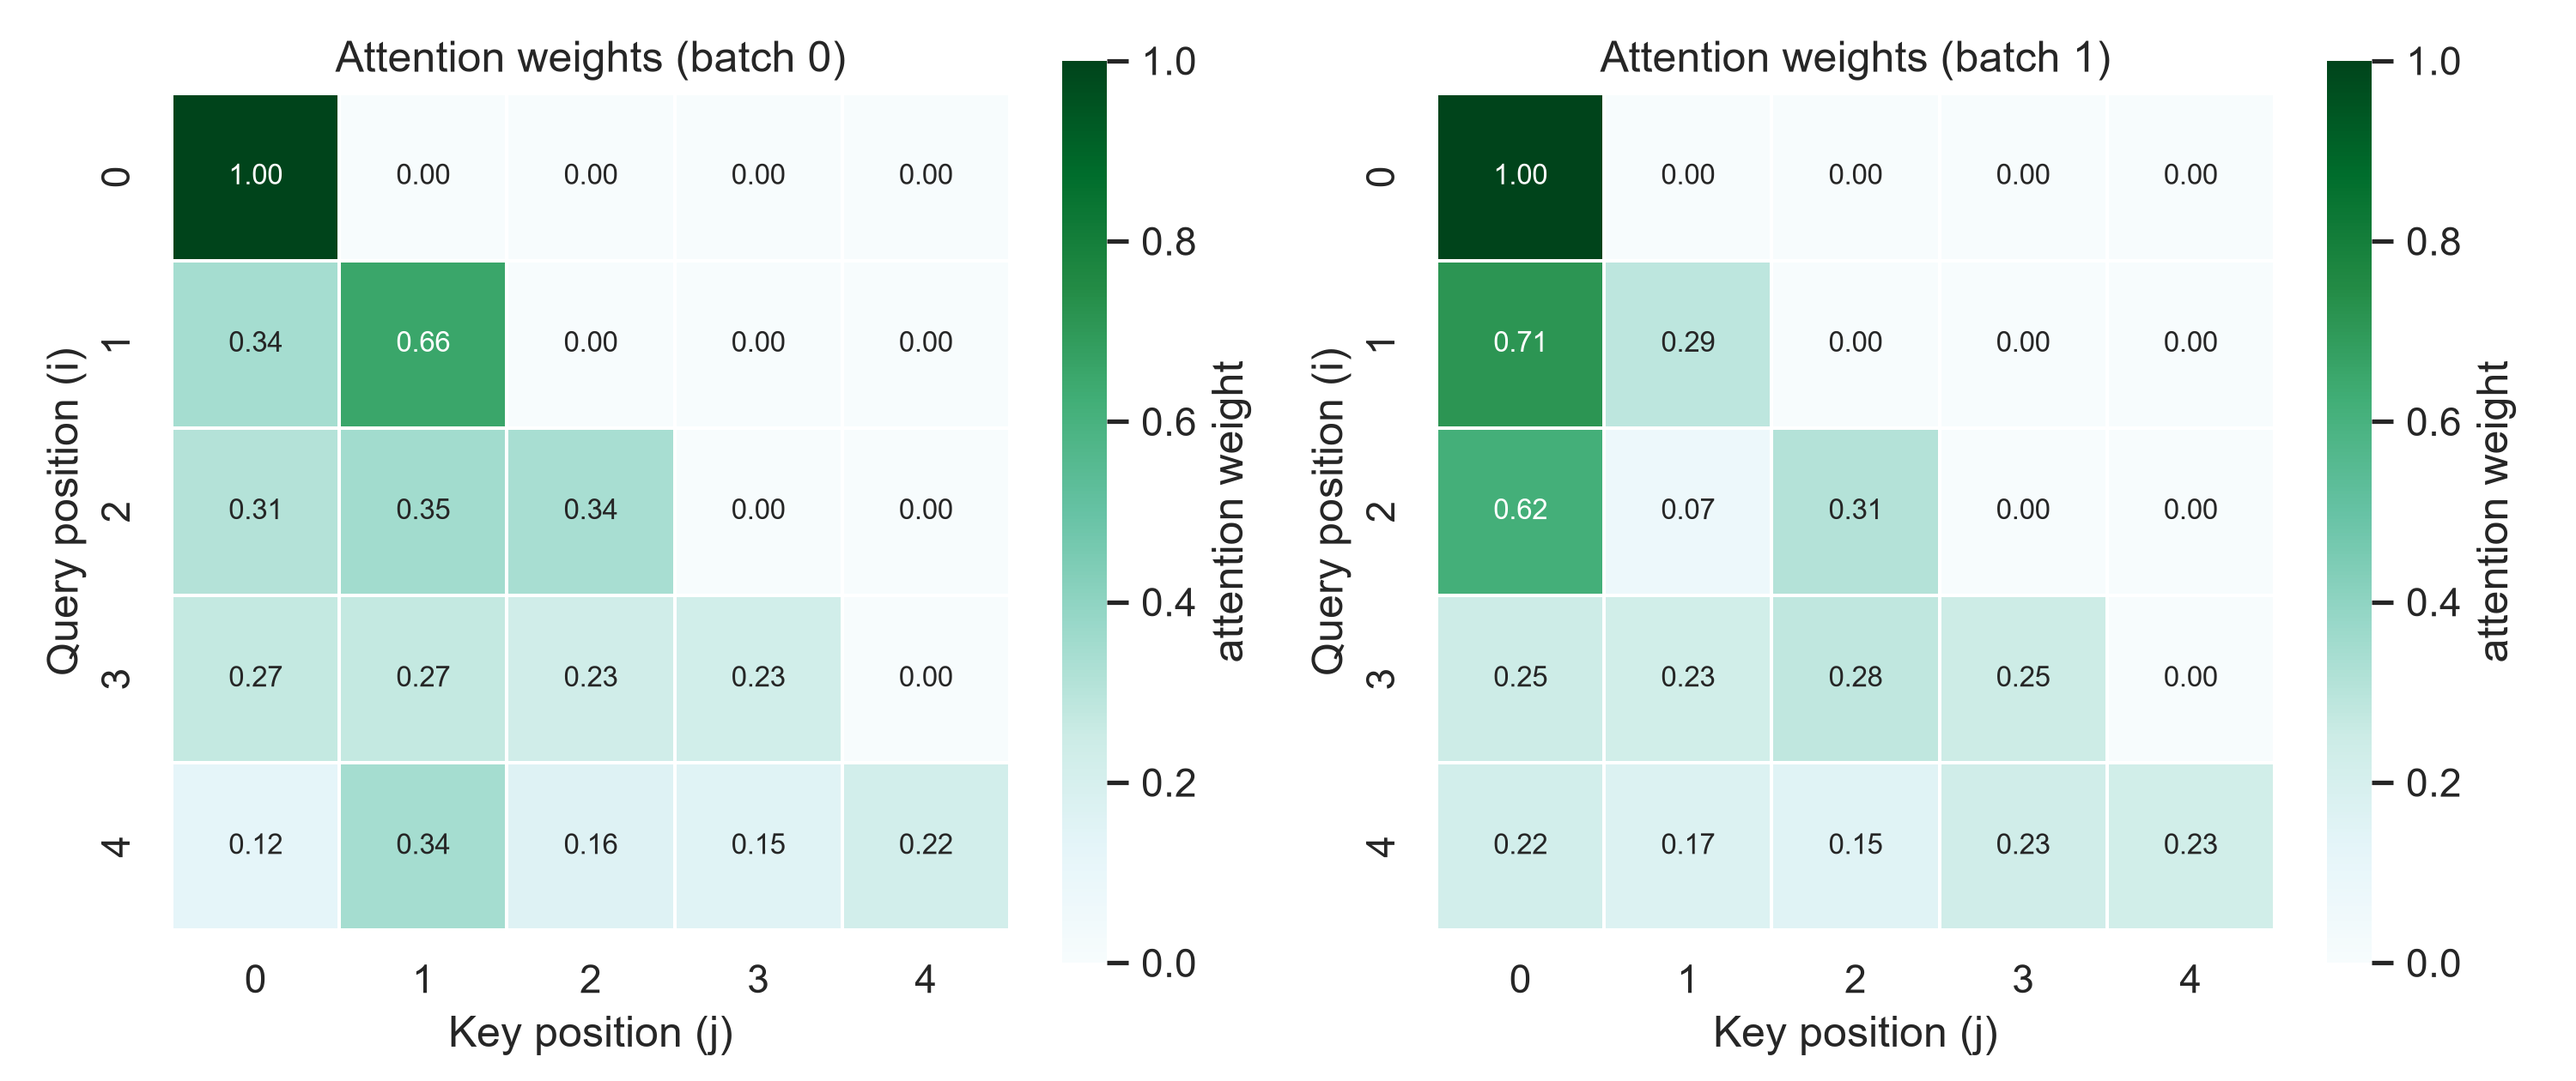
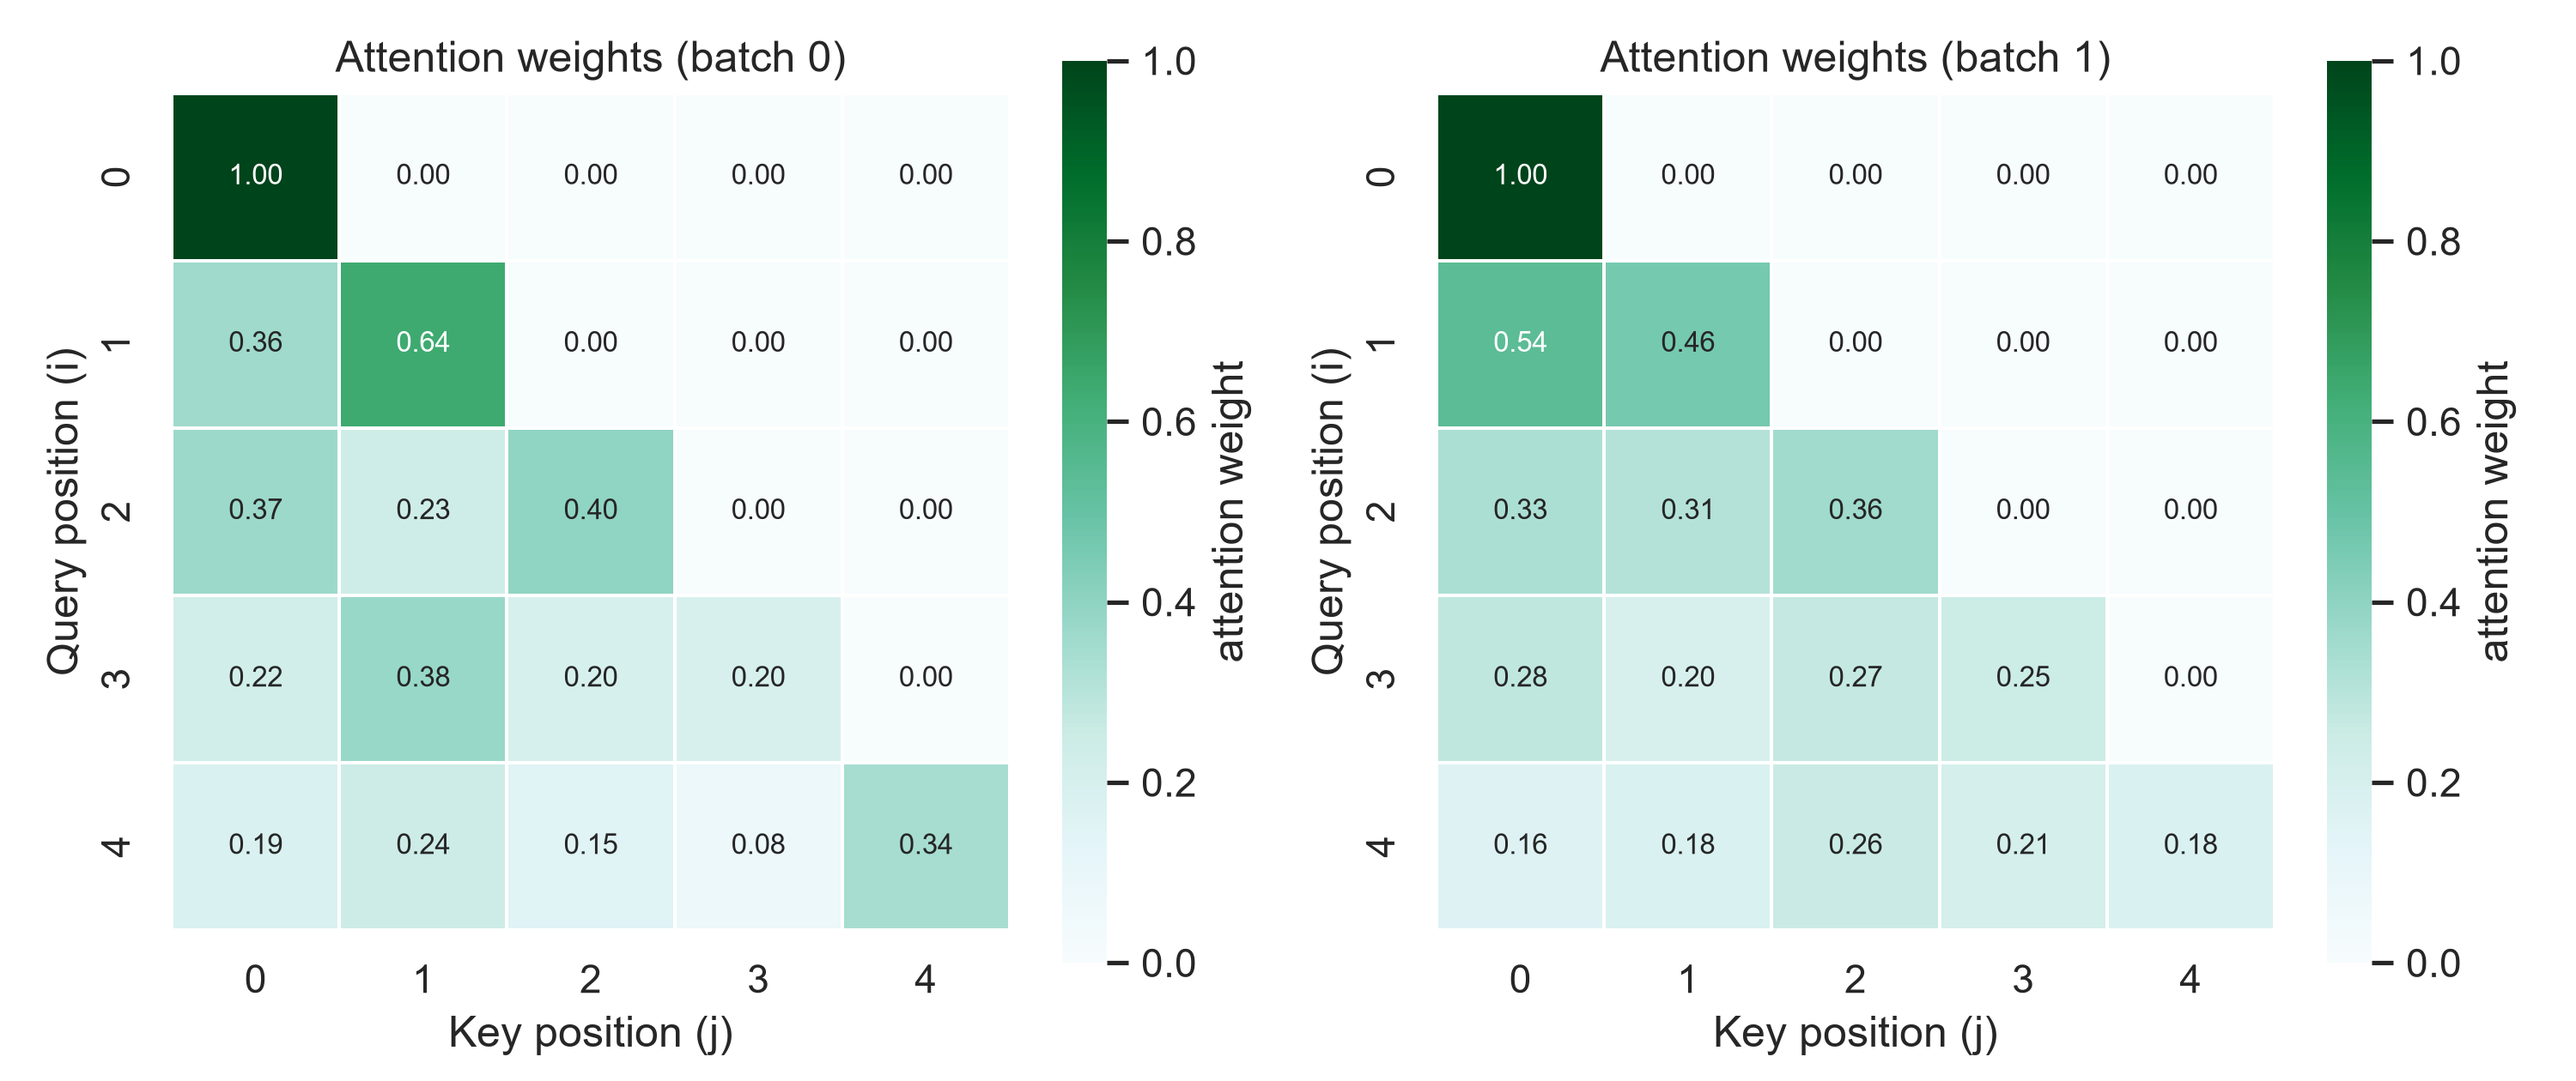
refactor(SA): 统一注意力掩码逻辑并优化SDPA使用方式
1. 修正sa.py中的掩码填充逻辑，匹配bool掩码语义
2. 简化single_head.py的因果掩码代码并补充示例注释
3. 重构sa_sdpa.py：改用显式attn_mask参数替代is_causal，统一掩码约定
4. 更新所有示例中的掩码生成和使用逻辑

diff --git a/SA/sa_sdpa.py b/SA/sa_sdpa.py
@@ -8,7 +8,8 @@
 注意: SDPA 只返回输出, 不返回注意力权重。
 需要权重可视化时用 need_attn=True 额外算一份 (仅用于观察, 不参与梯度)。
 
-因果屏蔽用 is_causal=True, 不手写 mask 张量。
+掩码使用显式 attn_mask 传入, 走 SDPA 的 bool 语义: True 表示参与注意力,
+形状需可广播到 (B, T, T); 传 None 表示不屏蔽任何位置。
 """
 
 import math
@@ -41,28 +42,26 @@ class ScaledDotProductAttentionSDPA(nn.Module):
         # 缩放因子 1/sqrt(d_k), 只在手动算注意力权重时用到
         self.scale = 1.0 / math.sqrt(self.d_k)
 
-    def forward(self, x, is_causal=False, need_attn=False):
+    def forward(self, x, attn_mask=None, need_attn=False):
         # x: (B, T, d_model)
+        # attn_mask: bool 张量, True 表示参与注意力, 可广播到 (B, T, T); None 表示不屏蔽
         Q = self.W_q(x)   # (B, T, d_k)
         K = self.W_k(x)   # (B, T, d_k)
         V = self.W_v(x)   # (B, T, d_v)
 
-        # 1. 内置算子一次完成 QK^T/sqrt(d_k) -> softmax -> @V
-        #    is_causal=True 会内置一个下三角因果 mask
+        # 1. 内置算子一次完成 QK^T/sqrt(d_k) -> mask -> softmax -> @V
+        #    bool mask 会被内部转成 0/-inf 的加性 bias, 在 softmax 之前应用
         out = F.scaled_dot_product_attention(
             Q, K, V,
-            is_causal=is_causal,
+            attn_mask=attn_mask,
         )  # (B, T, d_v)
 
-        # 2. 可选: 额外算一份注意力权重, 仅用于观察/画图
+        # 2. 可选: 额外算一份注意力权重, 仅用于观察/画图 (复用同一个 attn_mask)
         attn = None
         if need_attn:
             scores = torch.matmul(Q, K.transpose(-2, -1)) * self.scale  # (B, T, T)
-            if is_causal:
-                T_q, T_k = scores.shape[-2:]
-                causal = torch.ones(T_q, T_k, dtype=torch.bool).tril(diagonal=T_k - T_q)
-                print(causal)
-                scores = scores.masked_fill(~causal, float('-inf'))
+            if attn_mask is not None:
+                scores = scores.masked_fill(~attn_mask, float('-inf'))
             attn = F.softmax(scores, dim=-1)  # (B, T, T)
 
         return out, attn
@@ -79,9 +78,21 @@ if __name__ == "__main__":
     x = torch.randn(batch_size, seq_len, d_model)  # 模拟 EEG 电极通道特征
 
     # 因果掩码（causal mask）：位置 i 只能关注 j <= i，未来位置 j > i 被屏蔽
-    # 不再手写 torch.tril，直接交给 SDPA 的 is_causal=True
+    # 手写 bool 掩码: True 表示参与注意力（SDPA 的约定, 与 sa.py 里 "True 表示屏蔽" 相反）
+    causal_mask = torch.tril(torch.ones(seq_len, seq_len, dtype=torch.bool), diagonal=0)
+    print(causal_mask)
+
+    """
+    tensor([[ True, False, False, False, False],
+            [ True,  True, False, False, False],
+            [ True,  True,  True, False, False],
+            [ True,  True,  True,  True, False],
+            [ True,  True,  True,  True,  True]])
+    """
+
+
     attn_layer = ScaledDotProductAttentionSDPA(d_model)
-    out, attn_weights = attn_layer(x, is_causal=True, need_attn=True)
+    out, attn_weights = attn_layer(x, attn_mask=causal_mask, need_attn=True)
 
     print("输入形状: ", x.shape)               # (2, 5, 8)
     print("输出形状: ", out.shape)             # (2, 5, 8)

diff --git a/SA/sa.py b/SA/sa.py
@@ -39,7 +39,7 @@ class ScaledDotProductAttention(nn.Module):
 
         # 2. 可选：掩码（例如 padding mask 或 causal mask）
         if mask is not None:
-            scores = scores.masked_fill(mask == 0, float('-inf'))
+            scores = scores.masked_fill(~mask, float('-inf'))
 
         # 3. softmax 得到注意力权重
         attn = F.softmax(scores, dim=-1)  # (B, T, T)
@@ -60,8 +60,16 @@ if __name__ == "__main__":
     x = torch.randn(batch_size, seq_len, d_model)  # 模拟 EEG 电极通道特征
 
     # 因果掩码（causal mask）：位置 i 只能关注 j <= i，未来位置 j > i 被屏蔽
-    # torch.tril 保留下三角（含对角线）为 1，其余为 0，与 forward 里 "0 表示屏蔽" 的约定一致
-    causal_mask = torch.tril(torch.ones(seq_len, seq_len))  # (T, T)，可广播到 (B, T, T)
+    # torch.tril 保留下三角（含对角线）为 True，其余为 False，与 forward 里 "True 表示屏蔽" 的约定一致
+    causal_mask = torch.tril(torch.ones(seq_len, seq_len, dtype=torch.bool)) # (T, T)，可广播到 (B, T, T)
+    print(causal_mask)
+    """
+    tensor([[ True, False, False, False, False],
+            [ True,  True, False, False, False],
+            [ True,  True,  True, False, False],
+            [ True,  True,  True,  True, False],
+            [ True,  True,  True,  True,  True]])
+    """
 
     attn_layer = ScaledDotProductAttention(d_model)
     out, attn_weights = attn_layer(x, mask=causal_mask)

diff --git a/SA/single_head.py b/SA/single_head.py
@@ -23,10 +23,16 @@ class SingleHeadSelfAttention(nn.Module):
         if is_causal:
             T = x.size(1)
             # nn.MultiheadAttention 的约定：bool 张量里 True 表示"不允许关注"，所以上三角置 True
-            attn_mask = torch.triu(
-                torch.ones(T, T, dtype=torch.bool, device=x.device), diagonal=1
-            )
-            print("因果掩码:", attn_mask)
+            attn_mask = torch.triu(torch.ones(T, T, dtype=torch.bool, device=x.device), diagonal=1)
+            print(attn_mask)
+            
+            """
+            tensor([[False,  True,  True,  True,  True],
+                    [False, False,  True,  True,  True],
+                    [False, False, False,  True,  True],
+                    [False, False, False, False,  True],
+                    [False, False, False, False, False]])
+            """
 
         # 自注意力：Q = K = V = x
         out, attn_weights = self.attn(
